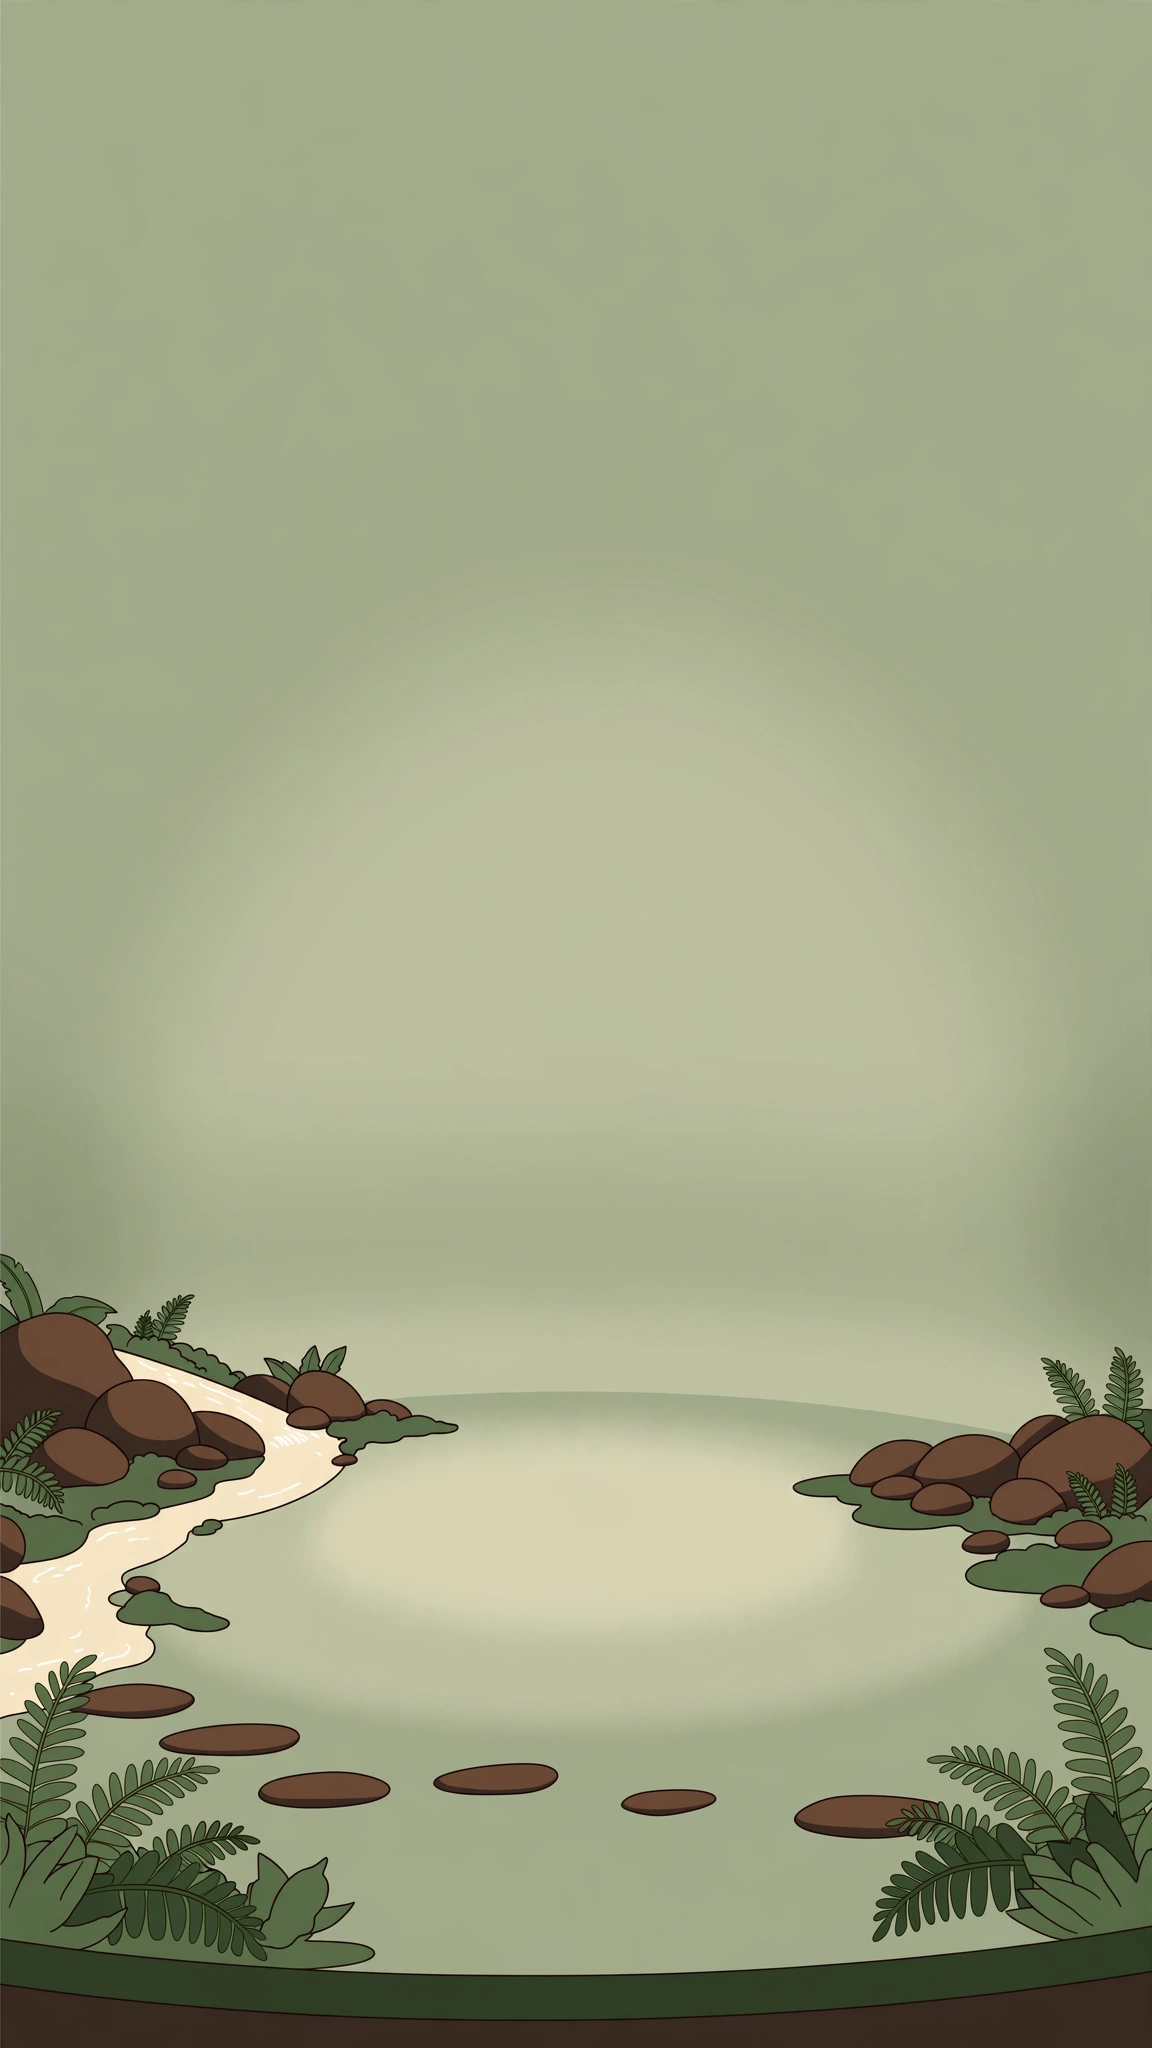
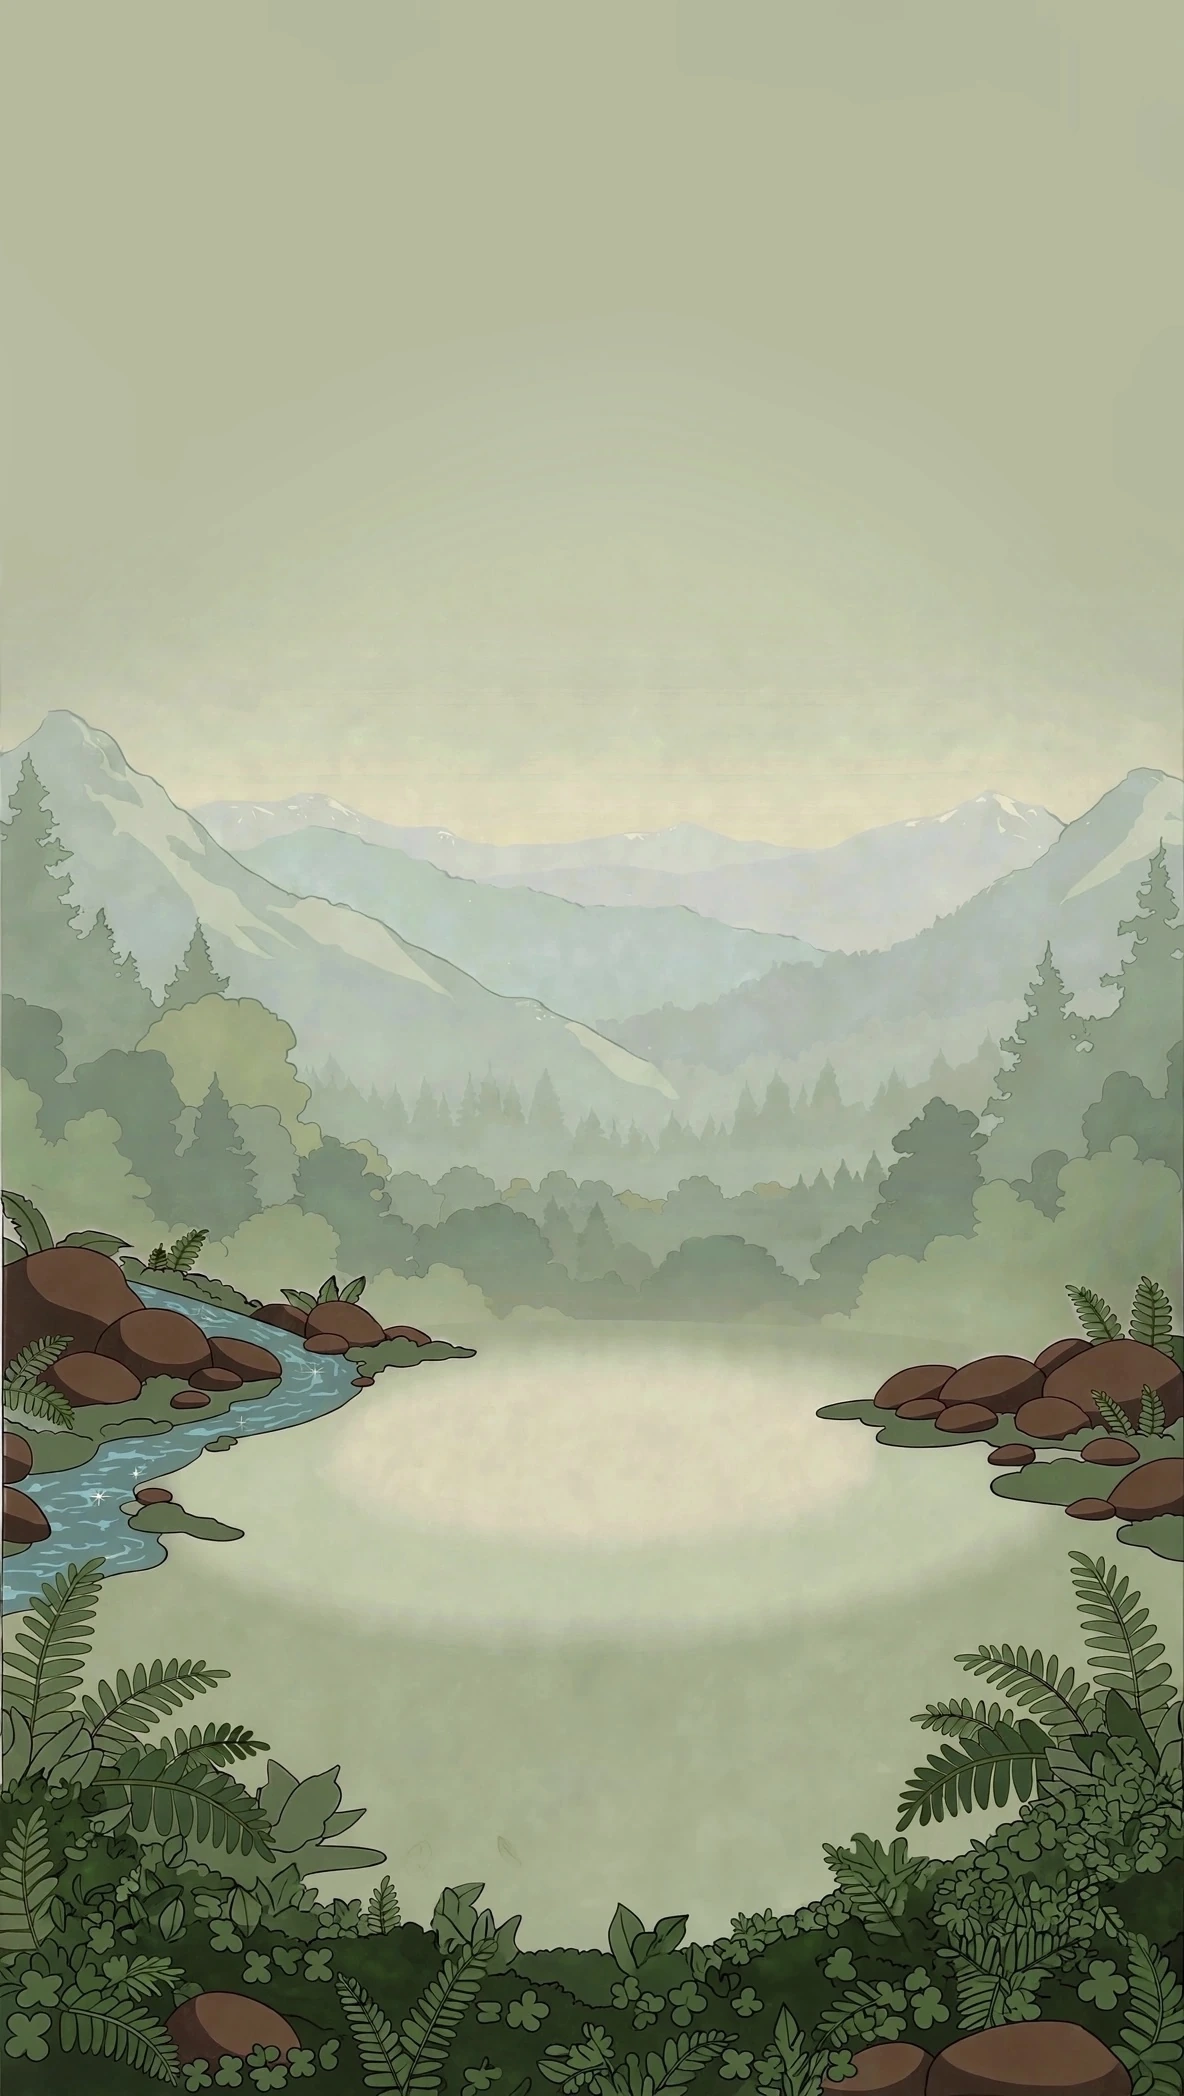
disco: new mountain/lake background (re-measured), wait out slow video loads before assuming autoplay is blocked

diff --git a/disco/site/disco.js b/disco/site/disco.js
@@ -805,7 +805,7 @@ function ytEnsure(){
             y.blocked = false; y.show = true;
           } else if (e.data === 0) stop();                        // ENDED
         },
-        onError: e => { console.warn('[disco] video unavailable (YouTube error ' + e.data + ')'); if (playing && playing.yt) stop(); }
+        onError: e => { yt.lastErr = e.data; console.warn('[disco] video unavailable (YouTube error ' + e.data + ')'); if (playing && playing.yt) stop(); }
       }
     });
   })).catch(err => { yt.ready = null; console.warn('[disco]', err.message); throw err; });
@@ -830,7 +830,18 @@ function ytStart(p){
     if (playing !== p) return;                                  // tapped away while the player was booting
     player.loadVideoById({ videoId: reel.id, startSeconds: start });
     ytNoCaptions();
-    y.timer = setTimeout(() => { if (!y.played) ytBlocked(p); }, 3000);   // nothing started: the browser refused sound-on autoplay
+    // Nothing started after 3s: is the browser refusing sound-on autoplay, or is the video just slow to load? A real block leaves the
+    // player idle (unstarted/cued); a slow connection leaves it BUFFERING. Keep waiting (up to ~12s) while it buffers, so a slow
+    // load doesn't get mistaken for a block and throw up YouTube's play button.
+    let waited = 0;
+    const check = () => {
+      if (y.played || playing !== p) return;
+      waited += 3000;
+      let st = -2; try { st = yt.player.getPlayerState(); } catch (_) {}
+      if (st === 3 && waited < 12000) { y.timer = setTimeout(check, 3000); return; }       // 3 = BUFFERING
+      ytBlocked(p);
+    };
+    y.timer = setTimeout(check, 3000);
   }).catch(() => {});
 }
 // The browser wouldn't start the video with sound from a tap on OUR page. Don't fight the player: show it, and let the tap
@@ -923,7 +934,7 @@ function setReels(list){
   attachPlaying();
   loadCovers();
   if (location.search.includes('stats')) setTimeout(() => { const L = camera.position.length(), p = ORIGIN.clone().project(camera); console.log('[disco] stage', JSON.stringify({ viewport: [stage.W, stage.H], picture: [Math.round(stage.dw), Math.round(stage.dh)], pictureTopY: Math.round(stage.ty), ballTarget: [Math.round(stage.bx), Math.round(stage.by), Math.round(stage.R)], ballActual: [Math.round((p.x+1)/2*stage.W), Math.round((1-p.y)/2*stage.H), Math.round(camFocal()/Math.sqrt(L*L-1))], poolCentre: [Math.round(stage.ox), Math.round(stage.oy)], poolWidth: Math.round(stage.ovalW) })); }, 400);
-  if (location.search.includes('stats')) window.__disco = { view: () => { const z = viewNow(), p = ORIGIN.clone().project(camera); return { R: ballR, stageR: stage.R, startDist: fitDist(), outDist: outDist(), R0: stage.R0, RFULL: stage.RFULL, shadowBg: shadowEl.style.background, z, bgScale, center: [(p.x+1)/2*stage.W, (1-p.y)/2*stage.H], target: [stage.bx, stage.by], shadow: shadowEl.style.transform, coveVisible: !!(coveMesh && coveMesh.visible), disco, camDist, fit: fitDist(), q: [ball.quaternion.x, ball.quaternion.y, ball.quaternion.z, ball.quaternion.w], pointers: pointers.size, pinching: !!pinch, dragging }; }, logoPoints: () => LOGO_CENTERS.map((C, k) => { ball.updateMatrixWorld(); const w = C.clone().multiplyScalar(logoTiles[k].h).applyMatrix4(ball.matrixWorld), n = C.clone().transformDirection(ball.matrixWorld), p = w.clone().project(camera); return { x: (p.x + 1) / 2 * innerWidth, y: (1 - p.y) / 2 * innerHeight, facing: n.dot(camera.position.clone().sub(w).normalize()) }; }) };   // test-only (?stats): where each logo slab is on screen
+  if (location.search.includes('stats')) window.__disco = { view: () => { const z = viewNow(), p = ORIGIN.clone().project(camera); return { R: ballR, stageR: stage.R, startDist: fitDist(), outDist: outDist(), R0: stage.R0, RFULL: stage.RFULL, shadowBg: shadowEl.style.background, z, bgScale, center: [(p.x+1)/2*stage.W, (1-p.y)/2*stage.H], target: [stage.bx, stage.by], shadow: shadowEl.style.transform, coveVisible: !!(coveMesh && coveMesh.visible), disco, camDist, fit: fitDist(), q: [ball.quaternion.x, ball.quaternion.y, ball.quaternion.z, ball.quaternion.w], pointers: pointers.size, pinching: !!pinch, dragging, yt: (() => { try { const pl = yt.player; return pl ? { state: pl.getPlayerState(), id: (pl.getVideoData() || {}).video_id, t: Math.round(pl.getCurrentTime()), err: yt.lastErr || null } : null; } catch (_) { return null; } })(), want: playing && playing.yt ? { id: playing.yt.videoId, played: playing.yt.played, blocked: playing.yt.blocked, show: playing.yt.show } : null }; }, logoPoints: () => LOGO_CENTERS.map((C, k) => { ball.updateMatrixWorld(); const w = C.clone().multiplyScalar(logoTiles[k].h).applyMatrix4(ball.matrixWorld), n = C.clone().transformDirection(ball.matrixWorld), p = w.clone().project(camera); return { x: (p.x + 1) / 2 * innerWidth, y: (1 - p.y) / 2 * innerHeight, facing: n.dot(camera.position.clone().sub(w).normalize()) }; }) };   // test-only (?stats): where each logo slab is on screen
   if (location.search.includes('stats')) console.log('[disco] stats', JSON.stringify({ reels: count, videoTileR: +reelR.toFixed(4), logoSlabR: +(logoTiles.reduce((a, c) => a + c.R, 0) / 4).toFixed(4) }));
 }
 

diff --git a/disco/site/index.html b/disco/site/index.html
@@ -38,15 +38,16 @@ window.DISCO_CONFIG = {
   // The room is a picture. Positions are fractions of the picture, MEASURED from the file (not eyeballed): the soft halo the ball
   // hovers in, the pale floor pool its shadow lands on, and which band of the picture must stay on screen on wide screens.
   stage: {
-    image: 'bg-stage.webp', w: 1152, h: 2048,
-    halo: 0.456,                       // vertical centre of the glow the ball floats in
-    ovalX: 0.50, ovalY: 0.755, ovalW: 0.48,   // the floor pool: centre and width
+    image: 'bg-stage.webp', w: 1184, h: 2096,
+    halo: 0.390,                       // vertical centre of the sky glow the ball floats in (measured)
+    ovalX: 0.51, ovalY: 0.708, ovalW: 0.42,   // the lake's pale floor pool: centre and width (measured)
     startZoom: 0.25,                    // where the page starts: this fraction of the way from the picture's design size to 'the ball's sides touch the screen's sides' (0 = design size)
     shadow: 0.30,                       // peak opacity of the ball's anchor shadow on the floor pool (it was 0.55)
     depth: 0.10,                        // how much the picture grows when the ball zooms in (0 = never, 1 = scales with the ball). Small: it is a distant backdrop.
-    top: 0.30, bottom: 0.82,           // rows kept on screen on wide screens (halo top .. floor pool bottom)
-    topRow: 'linear-gradient(to right,rgb(169,178,147),rgb(162,172,139),rgb(162,172,139),rgb(159,169,136),rgb(162,172,139),rgb(162,172,139),rgb(164,171,139),rgb(162,172,139),rgb(161,171,138),rgb(159,168,135),rgb(161,171,138),rgb(162,172,139),rgb(164,174,141))'    // the picture's top row, used to extend the sky upward on tall screens with no seam
+    top: 0.234, bottom: 0.80,           // rows kept on screen on wide screens (glow top .. just below the pool)
+    topRow: 'linear-gradient(to right,rgb(181,186,156),rgb(181,186,156),rgb(181,186,156),rgb(179,183,156),rgb(179,183,156),rgb(181,186,156),rgb(181,186,156),rgb(179,183,156),rgb(179,183,156),rgb(178,182,155),rgb(179,183,156),rgb(181,186,156),rgb(182,187,157))'    // the picture's top row, used to extend the sky upward on tall screens with no seam
   },
+
   playingRing: false,              // the original design's pulsing amber outline round the playing tile; off because it read as a glowing border
   logoStyle: 'opal',               // the slabs the logo is etched into: 'opal' (milky, with colour flashes) or 'agate' (the original sage stone)
   feed: 'data/reels.json',         // written by the feed script on the server (kept outside the deploy tree)

diff --git a/CLAUDE.md b/CLAUDE.md
@@ -267,6 +267,8 @@ A standalone, non-SPA page at **`/the-rock-garden/disco/`**: a spinnable "root b
 - **Opal "too polished" -> dulled (2026-11-23), measured not eyeballed.** Jace: flashes looked too sharp/polished; dull them without changing the colours. Baseline -> now (22 tilts, middle of the slab): flash share 18.0 -> 17.4%; flash colour mix green 37/36, red-pink 20/25, orange 17/17, violet 15/13, yellow 11/8; flash saturation 0.553 -> 0.569; body RGB (148,157,184) -> (147,157,187) (unchanged); **flash brightness 0.943 -> 0.843 (-11%); edge hardness (luminance step where flash meets stone) 0.111 -> 0.064 (-42%); 95th-percentile brightness 1.000 (clipped) -> 0.914; near-white glints gone.** How: `vor()` now also reports distance-to-seam (`vorE`) and each patch fades toward its seams (`OPAL_EDGE 0.55`); flash RGB scaled evenly by `OPAL_FLASHV 0.97` (hue + saturation unchanged); softer `fi` ramp; extra glow cut to `OPAL_GLOW 0.09`; the satin highlight on the opal stone cut to `OPAL_GLOSS 0.35`; `OPAL_BODY` 1.04 and the flash windows widened a touch to compensate so body tint + coverage didn't move. Re-measure with the scratchpad `opal3.mjs` + `opal_analyze3.py` pattern: capture the slab middle over ~22 small tilts, classify pixels in HSV.
 - **Pinch/zoom "glitch, then no control until refresh" (2026-11-23).** Root cause (reproduced by simulating LOST pointerup events, not yet seen on a real phone): `pointers` remembered every finger that was down; a lost "finger up" (iOS system gesture, a pinch drifting off the glass, a browser/iframe stealing the touch) left a phantom entry forever, so every later touch read as a 3rd finger (ignored) or a phantom pinch. With 2 phantoms the ball turned 0.00 rad and never recovered. Fix: phantoms are forgotten after `STALE_MS` (4s) idle; touch events (`touchstart/end/cancel`) are cross-checked against the browser's real finger list (`reconcileTouches`), which prunes phantoms and restarts the surviving touch as a drag/pinch; everything resets on blur / pagehide / hidden / contextmenu; `lostpointercapture` + window-level pointerup/cancel end fingers too; `startDrag/startPinch` helpers; NaN guards (`clampDist`, camera distance, ball quaternion, zero-size `resize`); all three Safari `gesture*` events and `touch-action:none` on html/body. Tests: scratchpad `lock.mjs` (CDP touch events + synthetic phantom pointers): before = 3 of 4 lost-finger scenarios failed, after = all pass, healthy pinch/drag unchanged.
 - **Start size + shadow strength (Jace, 2026-11-23).** The ball started a bit too small. `stage.startZoom: 0.25` in `DISCO_CONFIG.stage`: the start (and zoom-out limit) is now 25% of the way from the picture's design size `R0` to "the ball's sides touch the screen's sides" `RFULL = min(W,H)/2` — `R = R0 + startZoom*(RFULL-R0)` in `layoutStage` (0 = design size). Measured: phone 390x844 R 101 -> 125 (+23%, diameter 52% -> 64% of the width); desktop 1600x900 252 -> 301 (+20%); still on screen with a gap >= 0.4R above the floor pool at every size tested (6 viewports). **The anchor shadow was too intense: `stage.shadow` (peak opacity) 0.55 -> 0.30** (mid-stop is 0.55x of it; same soft shape), applied from the config in JS. Both are one number each.
+- **BACKGROUND PICTURE REPLACED (2026-11-23, second image: misty mountains + lake, 1184x2096, `bg-stage.webp` = the supplied JPG re-encoded at q92, 202KB; the first picture's numbers above are superseded).** Measured from this file: sky glow centre y=0.390 (`halo`); the lake's pale floor pool centre (0.51, 0.708), width 0.42, vertical extent 0.648-0.768 (`ovalX/ovalY/ovalW`); band kept on screen on wide screens `top 0.234` (= halo - 0.156, same relation as before) .. `bottom 0.80` (just below the pool); top row is flat sage (181,186,156) so the sky extends upward seamlessly (new `topRow` gradient). Verified at 6 viewports after the swap: image loads (200), ball on target within 3px, fully on screen, gap above the pool >= 0.33R (phone 0.75R), picture covers the screen with no seams, start size / zoom-out limit / depth / disco pull-out all unchanged.
+- **Autoplay-blocked detection hardened (2026-11-23):** the page used to declare "autoplay blocked" (show YouTube's play button, take touches) after exactly 3s with no PLAYING. A slow connection leaves the player BUFFERING (state 3), not idle, so `ytStart` now keeps waiting (re-checking every 3s, up to ~12s) while buffering and only falls back when the player is genuinely idle. An intermittent "second video never reached PLAYING" was seen ~2 times in ~25 headless runs and could NOT be reproduced for diagnosis (no YouTube error code was reported); the test now counts "playing" only as visible AND `pe:'none'` (`yt5.mjs`), and `window.__disco.view()` (under `?stats=1`) exposes `yt` (player state/video id/time/last error) and `want` for diagnosing it if it recurs.
 - **ZOOM RANGE (Jace, 2026-11-23, supersedes the "can only zoom in" parts of the two notes above): the page STARTS in-between but you can pinch OUT again.** Three sizes per screen (`layoutStage`): `R0` = fully zoomed out = the original zoom-out limit and the size the picture was drawn for (`min(0.26*picW, 0.28*H)`); `RFULL` = ball sides touch the screen sides (`min(W,H)/2`); `stage.R` = the START size = `R0 + startZoom(0.25)*(RFULL-R0)`. `fitDist()` = camera distance for the start size; `outDist()` = distance for `R0` (`distFor(R)`); `clampDist` allows `outDist()` (farthest) down to `outDist()*0.32` (~3.7x R0 in). **Entering disco pulls out to `outDist()`** (fully out, see more room). **Depth baseline is R0**, not the start size: `viewNow()` = `ballR/R0`, picture scale = `1 + stage.depth*(z-1)`, so at the start size the picture is already ~1.02x scaled and exactly 1.00x when fully zoomed out; the shadow rides the scaled pool. Verified at 6 viewports: start = R0 + 25% toward RFULL (e.g. phone 390x844: 101 -> start 125 -> sides-touching 195), pinching/scrolling out lands exactly on R0 (101) and a second push changes nothing, ball stays on its anchor with the picture back at scale 1.
 - **Logo clusters are tighter than the handoff's (Jace's call 2026-11-23: logos were dominating).** `LOGO_CELL = 0.6` in `makeSeeds`: the 7-cell logo cluster is packed at 0.6x a video shard's spacing, so the slabs (and the logo, which fits the slab) are smaller and video shards bigger. Measured at 71 videos with `?stats=1` (logs `[disco] stats {videoTileR, logoSlabR}`): original (1.0) videoTileR 0.2442 / logoSlabR 0.6171 -> 0.6: 0.2553 (+4.5%) / 0.4998 (-19%). Values 0.78/0.65/0.55/0.45 were swept; gains flatten below ~0.55. 1 = the original size.
 - **Playing-shard edge**: the video clip now matches the tile outline exactly (was inset 1.5%, leaving a sliver of the cover visible round the video) and the tile's cover fades out under the video (`y.vis`). The amber pulsing ring (a handoff-spec element) is now OFF by default (`playingRing: false` in `DISCO_CONFIG`; set `true` to bring it back) — Jace's screenshot showed a thin golden pulsing line round the playing tile that read as a glowing border.
